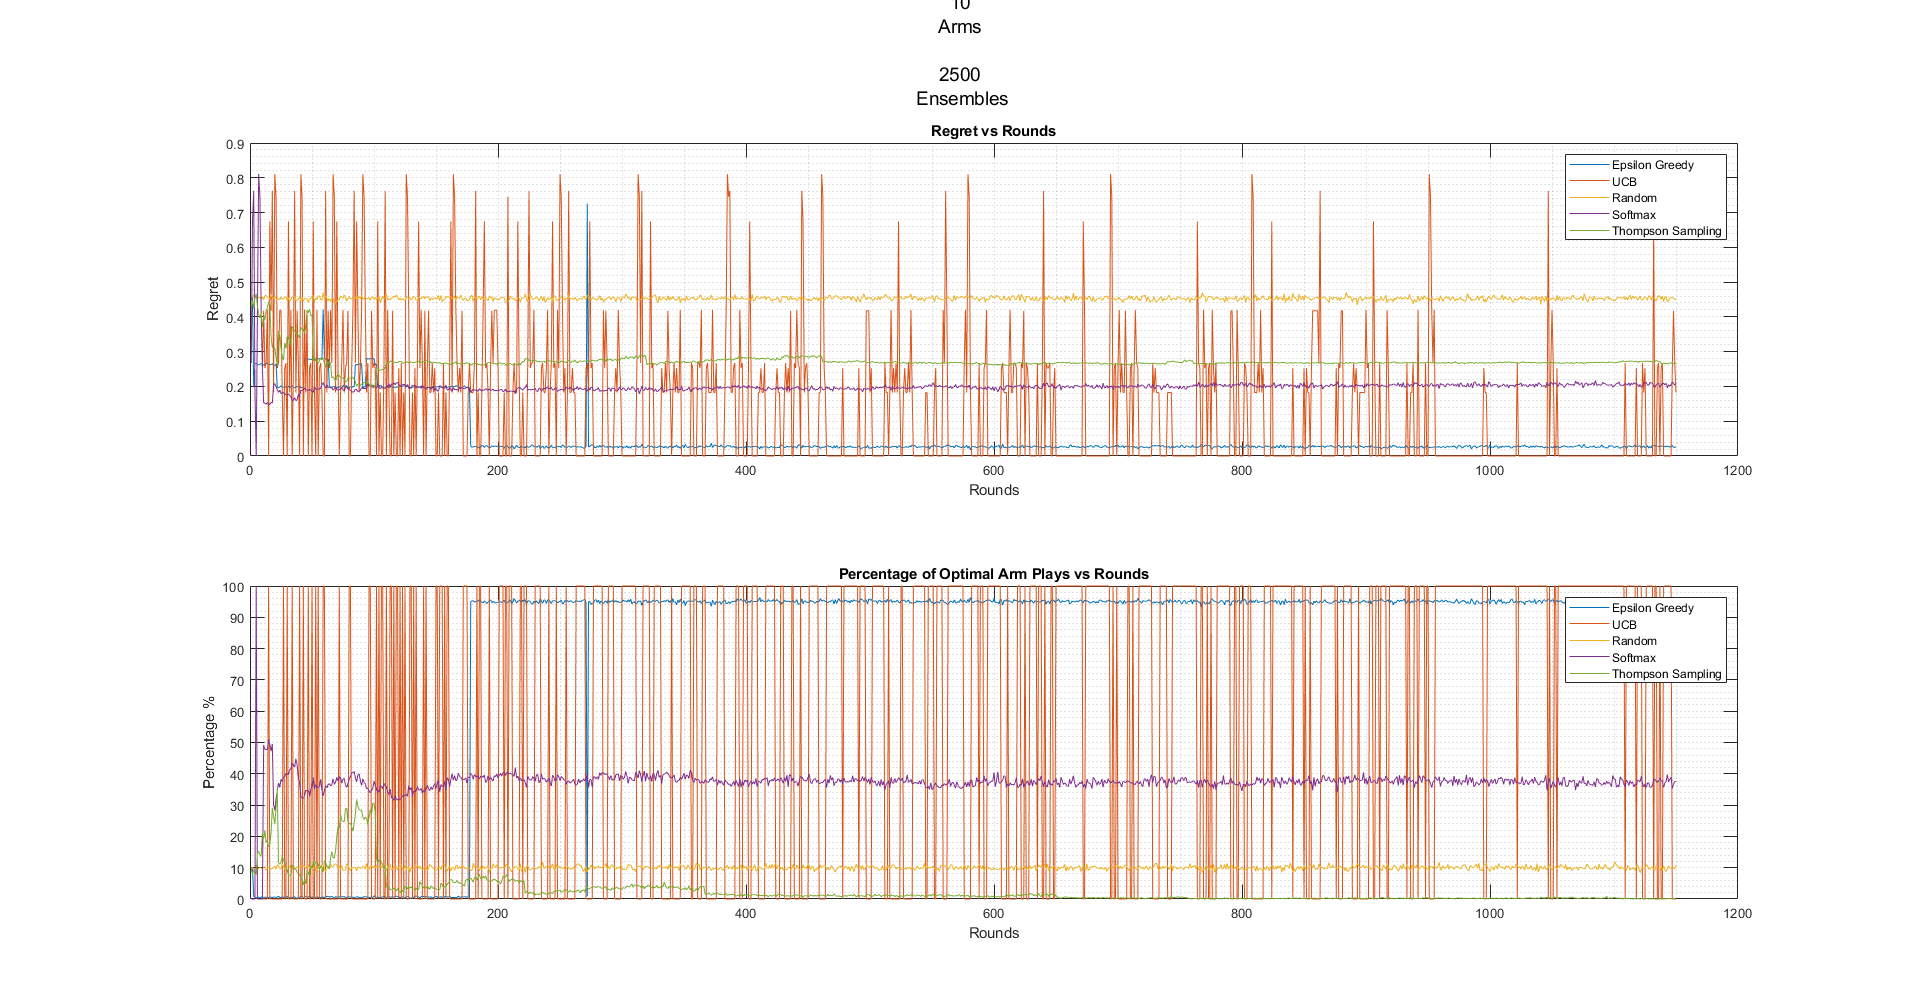
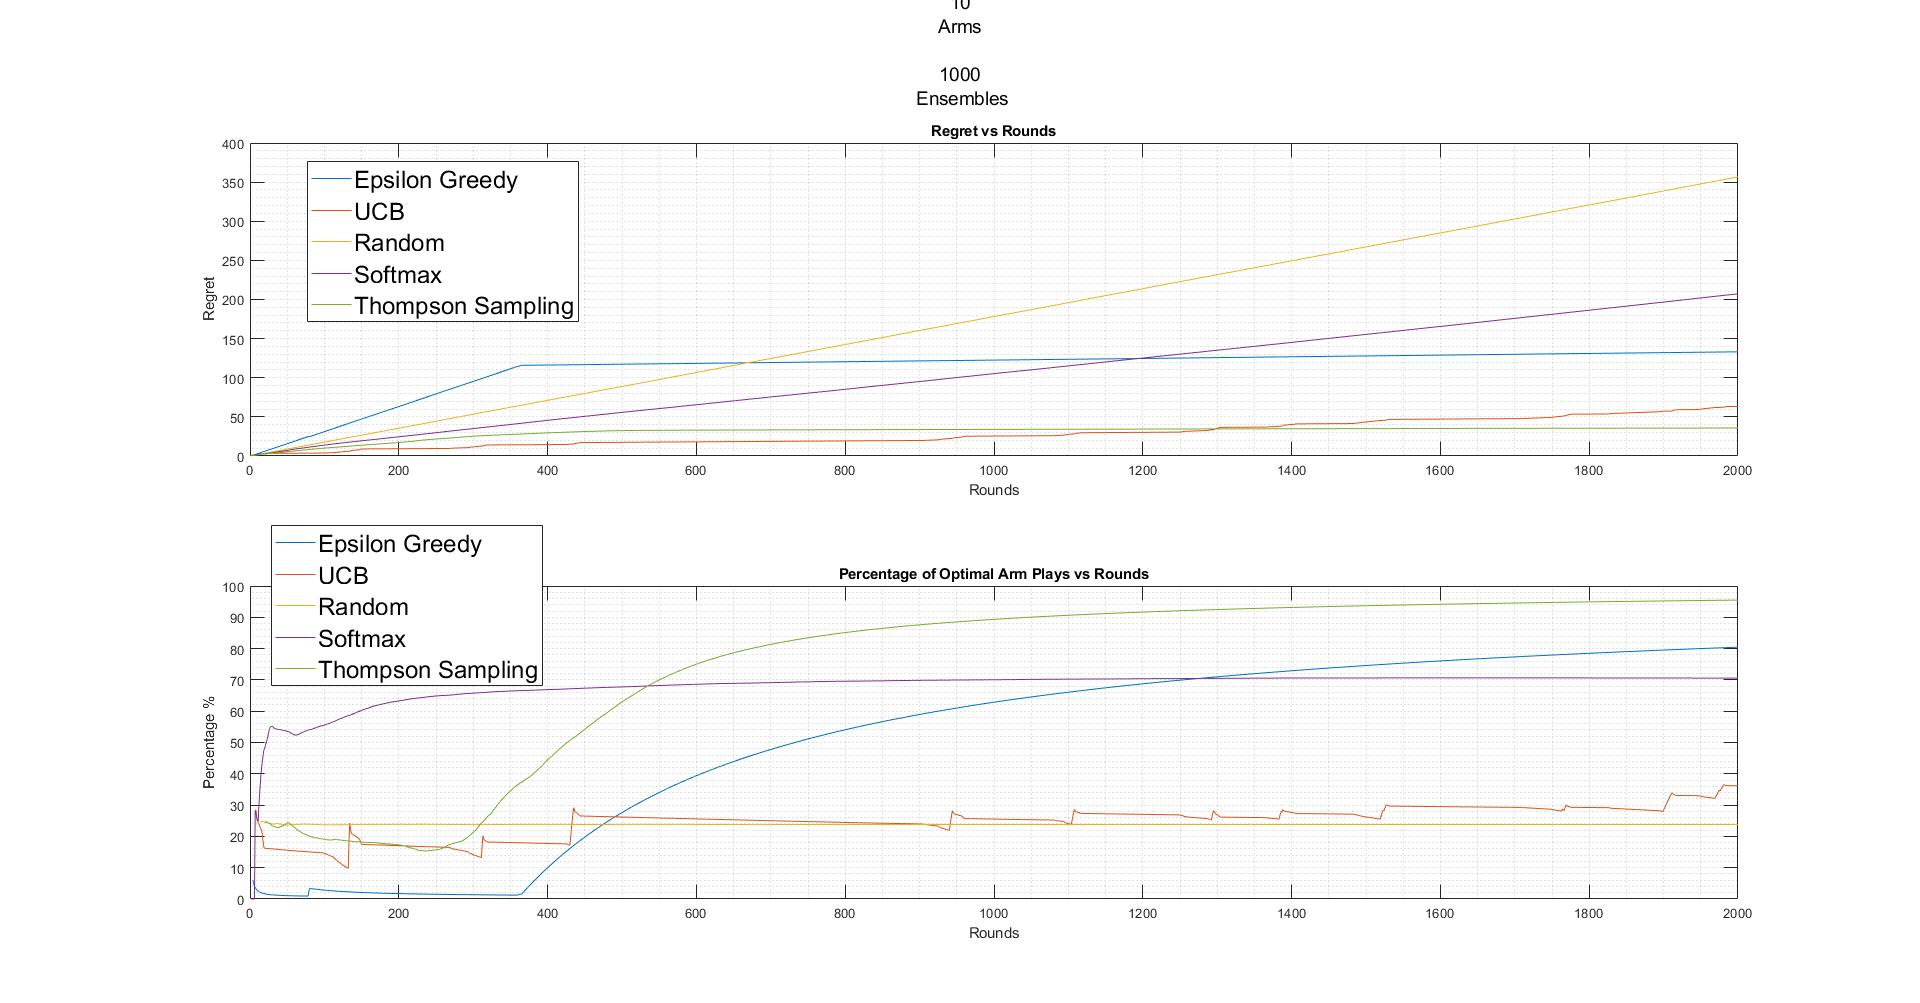
Final Fix regret

Changed region(s): [[0.0938, 0.1545, 0.9062, 0.4945], [0.125, 0.5254, 0.9062, 0.9272]]

diff --git a/Main_Code_mODIFIED.m b/Main_Code_mODIFIED.m
@@ -1,0 +1,127 @@
+%% ADDING FOLDERS TO PATH
+tic
+p1=genpath("Performance Analysis");
+p2=genpath("Simulate Game");
+p3=genpath("Algorithms");
+addpath(p1);
+addpath(p2);
+addpath(p3);
+new_game=1;
+%% SETTING VARIABLES
+algorithms=["Epsilon Greedy", "UCB" ,"Random","Softmax","Thompson Sampling" ,"Reinforce"];
+lo_lim=1;
+up_lim=5;
+legend_name=algorithms(lo_lim:up_lim);
+game_variance_threshold=1;
+
+T=2000;
+repeat_game=1000;
+% algorithm_parameters.TS_arms=ones(arms,2);
+for arms=[2 5 10 50]
+    history.arms=arms;
+    figure
+    for a=lo_lim:up_lim
+        %% GETTING BANDIT (SLOT) MACHINES
+        game_mat = zeros(repeat_game,T,arms);
+        tic
+        if new_game==1
+            [bandit]= Game_settings(arms);
+            while var(bandit.mu/max(bandit.mu))>game_variance_threshold&&toc<3
+                [bandit]= Game_settings(arms);
+            end
+            if var(bandit.mu/max(bandit.mu))<game_variance_threshold
+                disp("Couldn't find a proper game")
+            end
+        end
+        new_game=0;
+        
+        %% RUNNING THE GAME
+        choose_algortihm=algorithms(1,a);
+        fprintf("Algorithm %s\n",choose_algortihm);
+        algorithm_parameters.choose_algortihm=choose_algortihm;
+        arm_history=zeros(repeat_game,arms);
+        reward_history=arm_history;
+        %Create a structure to hold the history of the game so far.
+        history.arm_history=arm_history;
+        history.reward_history=reward_history;
+        reward_history=arm_history;
+        
+        for i=1:repeat_game
+            %Store the previous arm chosen and the reward
+            history.previous_arm=-1;
+            hisrtory.reward_previous_arm=-1;
+            for j=1:T
+                % Choose arm c, given how many arms are there and the game progress
+                % so far, along with which step we are in currently
+                
+                game_history=squeeze(game_mat(1,1:j,:));
+                if iscolumn(game_history)
+                    game_history=game_history';
+                end
+                
+                %Computing total rewards and busts per arm
+                positive_rewards=game_history;
+                positive_rewards(positive_rewards==-1)=0;
+                positive_rewards(positive_rewards~=0)=1;
+                
+                negative_rewards=game_history;
+                negative_rewards(negative_rewards~=-1)=0;
+                negative_rewards=negative_rewards*(-1);
+                
+                history.ensemble=i;
+                [c,algorithm_parameters]=choose_arm(arms,game_history,algorithm_parameters,history);
+                reward=Sim_game_Bernouli(c,bandit);
+                % Store the reward in the matrix
+                arm_history(i,c)=arm_history(i,c)+1;
+                
+                if reward>0
+                    reward_history(i,c)=arm_history(i,c)+reward;
+                end
+                history.arm_history=arm_history;
+                history.reward_history=reward_history;
+                game_mat(i,j,c)=reward;
+                history.previous_arm=c;
+                hisrtory.reward_previous_arm=reward;
+            end
+            fprintf("Running %s %d\n",algorithms(1,a),i)
+            
+        end
+        %% PERFORMANCE ANALYSIS
+        fprintf("Computing Regret\n")
+        regret=my_regret(game_mat,bandit);
+        fprintf("Computing Percentage of times the Optimal Arm was Picked\n")
+        percent_over_time=percent_optimal_arm(game_mat,bandit);
+        %% PLOT GRAPHS
+        subplot(2,1,1)
+        plot(1:T,regret);
+        ylabel("Regret");
+        xlabel("Rounds");
+        
+        title("Regret vs Rounds")
+        legend(legend_name)
+        hold on
+        
+        
+        subplot(2,1,2)
+        plot(1:T,percent_over_time*100);
+        ylabel("Percentage %");
+        ylim([0, 100])
+        xlabel("Rounds");
+        
+        title("Percentage of Optimal Arm Plays vs Rounds")
+        legend(legend_name)
+        hold on
+        
+    end
+    %% MINOR ADJUSTMENTS
+    subplot(2,1,1)
+    grid minor
+    subplot(2,1,2)
+    grid minor
+    d=squeeze(game_mat(6,:,:));
+    toc
+    %     name=strcat([num2str(arms) ' Arms '  {' '} ,num2str(repeat_game) ' Ensembles']);
+    suptitle([num2str(arms) ' Arms '  {' '} num2str(repeat_game) ' Ensembles']);
+    
+    new_game=1;
+end

diff --git a/Performance Analysis/percent_optimal_arm.m b/Performance Analysis/percent_optimal_arm.m
@@ -2,22 +2,42 @@
 % This function computes the percentage of time the optimal arm was picked
 % as the game progressed
 function percent_over_time=percent_optimal_arm(game_mat,bandit)
-[ensembles,~,~]=size(game_mat);
-% Replacing all the rewards with 1
-times_played=game_mat;
-times_played(times_played~=0)=1;
-% Reorder 3-D matrix to get a collection of Ensemble*Arms matricies
-times_played=permute(times_played,[1 3 2]);
-% Adding up the ensembles
-sum_ensemble=sum(times_played,1);
-%Converting a [1*T*arms] matrix into a [T*arms] matrix
-
-%Converting the sum into a matrix where each row is a time index and the
-%columns tell us how many times each arm was played.
-sum_ensemble=squeeze(sum_ensemble(1,:,:));
-sum_ensemble=sum_ensemble';
-
-%The best arm is the column of "sum_ensemble"; given by "bandit.best_arm"
-percent_over_time=sum_ensemble(:,bandit.best_arm);
-percent_over_time=percent_over_time/ensembles;
+[ensembles,T,~]=size(game_mat);
+percent_over_time=zeros(T,1);
+for j=1:ensembles
+    single_game=squeeze(game_mat(j,:,:));
+    times_played=single_game;
+    times_played(times_played~=0)=1;
+    %cumulatively adding all the arms played uptil a time
+    cumulative_sum=cumsum(times_played);
+    %Number of times the best arm has been played
+    best_arm_plays=cumulative_sum(:,bandit.best_arm);
+    %Adding all the columns of cum_sum
+    temp=sum(cumulative_sum,2);
+    %The percent over time is the ratio of the two variables. The running
+    %average of this over all ensembles is taken.
+    % Using running average formula: U_(n+1)=U_n*[n/(n+1)] + (S_n)/(n+1)
+    final_temp=best_arm_plays./temp; 
+    
+    percent_over_time=((percent_over_time*(j-1))/j)+final_temp/j;
+end
+tt=11;
+% 
+% % Replacing all the rewards with 1
+% times_played=game_mat;
+% times_played(times_played~=0)=1;
+% % Reorder 3-D matrix to get a collection of Ensemble*Arms matricies
+% times_played=permute(times_played,[1 3 2]);
+% % Adding up the ensembles
+% sum_ensemble=sum(times_played,1);
+% %Converting a [1*T*arms] matrix into a [T*arms] matrix
+% 
+% %Converting the sum into a matrix where each row is a time index and the
+% %columns tell us how many times each arm was played.
+% sum_ensemble=squeeze(sum_ensemble(1,:,:));
+% sum_ensemble=sum_ensemble';
+% 
+% %The best arm is the column of "sum_ensemble"; given by "bandit.best_arm"
+% percent_over_time=sum_ensemble(:,bandit.best_arm);
+% percent_over_time=percent_over_time/ensembles;
 end

diff --git a/@Algorithm_parameters/Algorithm_parameters.m b/@Algorithm_parameters/Algorithm_parameters.m
@@ -1,0 +1,51 @@
+%%%%%%%%%%%%%%%%%%%%%Created by SAWAN SINGH MAHARA%%%%%%%%%%%%%%%%%%%%%%%%%
+
+classdef Algorithm_parameters  < handle
+    %% Default properties
+    properties
+        %Inputs
+        arms;
+        last_trial;
+        positive_rewards;
+        negative_rewards;
+    end
+    %% Methods (CONSTRUCTOR)
+    methods
+        %Constructor method, having same name as class name which has a
+        %variable number of inputs, to accomodate an object as the
+        %input
+        function obj=Algorithm_parameters(varargin)
+            %Check if there is a handle passed in as the input. If it is,
+            %set this objects's (obj) parameters as that one's and run the
+            %commands.
+            if nargin > 0
+                %% TO VIEW HIDDEN PROPERTIES
+                %To see the hidden settings, display mystruct values
+                if ~isscalar(varargin{1})
+                    current_play=obj.last_trial;
+                    rewards=current_play;
+                    rewards(rewards==-1)=0;
+                    
+                    
+                    penalty=current_play;
+                    penalty(penalty~=-1)=0;
+                    penalty=penalty*(-1);
+                    
+                    obj.positive_rewards=obj.positive_rewards+rewards;
+                    obj.negative_rewards=obj.negative_rewards+penalty;
+                    
+                else
+                    obj.positive_rewards=zeros(1,varargin{1});
+                    obj.negative_rewards=obj.positive_rewards;
+                end
+            else
+                %% IF NO PARAMETERS ARE PASSED IN
+                disp("Created an empty handle.")
+            end
+            
+        end
+    end
+    
+end
+
+%%%%%%%%%%%%%%%%%%%%%Created by SAWAN SINGH MAHARA%%%%%%%%%%%%%%%%%%%%%%%%%

diff --git a/Performance Analysis/my_regret.m b/Performance Analysis/my_regret.m
@@ -23,23 +23,18 @@ regret=zeros(T,1);
 % end
 
 %Computing regret as time progresses, over all the ensembles
-r=zeros(T,1);
-for i=1:T
-    times_each_arm_played=sum(times_played(:,i,:),1);
-    h=squeeze(times_each_arm_played(:,1,:))';
-    %The above line creates an Ensemble*Arms matrix where each element
-    %holds the number of times each arm was played for a particular
-    %ensemble, up until time step i.
+regret=zeros(T,1);
+for j=1:ensembles
+    %Getting the jth ensemble's game history
+    regret_mat=squeeze(game_mat(j,:,:));
+    % Finding out how many times each arm was played as time goes on
+    times_played=regret_mat;
+    times_played(times_played~=0)=1;
+    % Finding the distance of mu_star with the other mu's
     delta=bandit.mu_star-bandit.mu;
-    %Delta is the difference of each arm's actual mean with the optimal
-    %mean
-
-    %h is a 2D matrix holding the number of times each arm was pulled every
-    %ensemble.
-    average_times_played=h/ensembles;
-    regret(i,1)=sum((average_times_played.*delta'));
-
-    r(i,1)=sum(h);
+    %adding up the times eah arm was played until each time
+    cumulative_sum=cumsum(times_played)*delta;
+    % Using running average formula: U_(n+1)=U_n*[(n+1)/N] + (S_n)/N
+    regret=(regret*(j-1))/j+cumulative_sum/j;
 end
-rr=1;
 end

diff --git a/Algorithms/Fast_epsilon_greedy.m b/Algorithms/Fast_epsilon_greedy.m
@@ -1,0 +1,39 @@
+%% SETTING THE VARIABLES
+function [choice]=Fast_epsilon_greedy(history)
+ensemble=history.ensemble;
+arms=history.arms;
+epsilon=0.05;
+% Setting parameters as per the paper
+chance_of_best_arm=1-epsilon;
+reward_history=history.reward_history(ensemble,:);
+arm_history=history.arm_history(ensemble,:);
+%% ESTIMATING MEANS AND BEST ARM
+estimates_of_average_reward=reward_history./arm_history;
+%All values NaN are set to 0
+estimates_of_average_reward(isnan(estimates_of_average_reward))=0;
+if estimates_of_average_reward==0
+    best_arm=randi(arms,1);
+else
+    [~,best_arm]=max(estimates_of_average_reward);
+end
+%% CHOOSING AN ARM
+choice=best_arm;
+%If rand is more than the chance of best arm, make another choice.
+if rand>chance_of_best_arm
+    %if there are 2 arms, the default choice will be the other arm (min)
+    if arms==2
+        [~,choice]=min(estimates_of_average_reward);
+    else
+    %Else, keep picking random arms that is not the best arm
+    tic
+        while(choice==best_arm)
+            choice=randi((arms-1),1);
+            if toc>3
+                error("Infinite Loop?")
+            end
+        end
+    end
+    
+end
+
+end

diff --git a/Simulate Game/choose_arm.m b/Simulate Game/choose_arm.m
@@ -1,10 +1,13 @@
-function [choice,algorithm_parameters]=choose_arm(arms,game_history,algorithm_parameters,highest_reward)
+function [choice,algorithm_parameters]=choose_arm(arms,game_history,algorithm_parameters,history)
+
+
 
 switch algorithm_parameters.choose_algortihm
     case "Random"
         choice=Random_algo(arms);
     case "Epsilon Greedy"
-        choice=epsilon_greedy(game_history);
+               choice=epsilon_greedy(game_history);
+%         choice=Fast_epsilon_greedy(history);
     case "UCB"
         choice=UCB(game_history);
     case "Thompson Sampling"
@@ -12,7 +15,7 @@ switch algorithm_parameters.choose_algortihm
     case "Reinforce"
         %Function call to algorithm
     case "Softmax"
-         choice=softmax(game_history);
+        choice=softmax(game_history);
     otherwise
         error("Improper Algorithm Name")
 end

diff --git a/Algorithms/Reinforce.m b/Algorithms/Reinforce.m
@@ -1,0 +1,27 @@
+function [choice]=Reinforce(history)
+ensemble=history.ensemble;
+arms=history.arms;
+previous_arm=history.previous_arm;
+reward_previous_arm=hisrtory.reward_previous_arm;
+reward_history=history.reward_history(ensemble,:);
+arm_history=history.arm_history(ensemble,:);
+initial_mu_setting=1;
+%% GET REWARDS AND FAILURES
+expected_mu=reward_history./arm_history;
+%If we have never played that arm, then the mean is set to 0 since
+%expected_mu will be infinity;
+if isinf(sum(expected_mu))
+    expected_mu(isinf(expected_mu))=initial_mu_setting;
+end
+
+
+%% UPDATE RULE
+
+probabilities=exp(expected_mu)./sum(exp(expected_mu));
+if reward~=-1
+    probabilities=probabilities+(1-expected_mu(previous_arm,1))
+end
+alpha
+beta
+choice=choose_arm_probability(probabilities);
+end

diff --git a/Simulate Game/Game_settings.m b/Simulate Game/Game_settings.m
@@ -13,8 +13,8 @@ if k==1
 end
 arm_reward=zeros(k,1);
 for i=1:k
-    % Reward is a random integer from 1-100
-    arm_reward(i,1)=rand;%randi(1000,1);
+    % Reward is a random integer 0 or 1
+    arm_reward(i,1)=randi(2,1)-1;
 end
 
 %% SETTING REWARD PROBABILITIES

diff --git a/sssss.m b/sssss.m
@@ -1,0 +1,3 @@
+%obj=Algorithm_parameters(3);
+game_history=[10 0 0];
+obj.positive_rewards=obj.positive_rewards+game_history;
